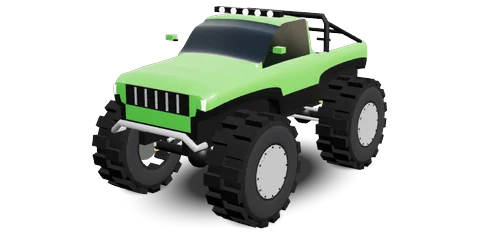
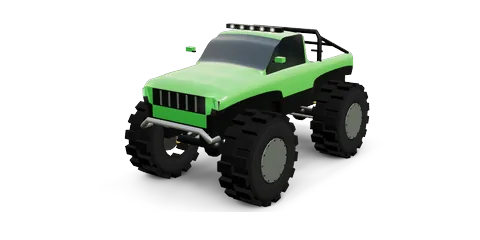
Grand Fable GP: car-card thumbnails for the 12 rebuilt cars (real colours), thumbnail cache-buster; tools README

Changed region(s): [[0.1875, 0.0292, 0.8125, 0.9625]]

diff --git a/race3d.js b/race3d.js
@@ -776,7 +776,7 @@ function renderRace(){
   const seg=(k,v,cl)=>'<span class="fz-st '+cl+'"><i>'+k+'</i><s>'+[1,2,3,4,5].map(q=>'<em class="'+(q<=v?"on":"")+'"></em>').join("")+'</s></span>';
   const grp=window._gpGrp||(GP_CARS.find(c=>c.id===sel)||{}).grp||"racers";
   const cards=GP_CARS.map(c=>'<button class="fz-car v4'+(c.id===sel?" on":"")+'"'+((c.grp||"racers")===grp?'':' hidden')+' data-grp="'+(c.grp||"racers")+'" data-car="'+c.id+'" onclick="gpPickCar(\''+c.id+'\')" aria-label="'+esc(c.n)+'">'
-    +'<span class="fz-thumb" style="--bg:url(assets/cars3d/thumbs/'+c.id+'.webp)"></span><span class="fz-kind">'+esc(c.kind||c.type)+'</span><b>'+esc(c.n)+'</b>'
+    +'<span class="fz-thumb" style="--bg:url(assets/cars3d/thumbs/'+c.id+'.webp?v=2)"></span><span class="fz-kind">'+esc(c.kind||c.type)+'</span><b>'+esc(c.n)+'</b>'
     +seg("Speed",c.speed,"sp")+seg("Grip",c.grip||c.handle,"gr")+seg("Accel",c.accel,"ac")+'<small>'+esc(c.bio)+'</small></button>').join("");
   const sw=GP_PAINTS.map(h=>'<button class="fz-sw'+(h===paint?" on":"")+'" style="background:'+h+'" data-paint="'+h+'" onclick="gpPickPaint(\''+h+'\')" aria-label="Paint colour"></button>').join("");
   app.innerHTML='<div class="'+gpShellClass()+(GP_PICS[sel]?" pic":"")+'" id="fzShell" style="max-width:980px;margin:0 auto;padding:0 8px">'

diff --git a/tools/cars3d/README_fleet.md b/tools/cars3d/README_fleet.md
@@ -81,3 +81,22 @@ One entry per id:
 - The formula's rear wing is narrower than its track (as on real cars). Its sticker sits on the main plane at x = ±0.27.
 - The trucks need `twF/twR/rad/radR` from fleet.json even more than the others: monster tyres are 0.80 m x 0.60 m and the
   semi's rear `twR` 0.66 covers both dual tyres. Their `ride` is the body floor (monster 1.30, trophy 0.75, semi cab 0.95).
+
+## Realistic parts (job 1112-0147-25ca)
+`build_fleet.py` now builds the 12 fleet cars with real-car parts (set `GP_FLEET_PLAIN=1` to rebuild the old models byte-for-byte):
+- **Lamp units** (`MBX` routes every `lamp` slab >= 5 cm and every `tail` part while a car's extras are built): dark `carbon`
+  housing, bright `rim` metal reflector bowl, `lamp` projector elements (two + an LED eyebrow on wide lamps), and a clear `lens`
+  cover. The lens takes the old part's outer face; everything else sits 3-9 mm behind it, so no outline moves. Tail lamps get a
+  glossy `taillens` cover over the `tail` emitter (the game lights both on the brake).
+- **`hl`** in fleet.json: headlamp centres `[x, y, z_front, size]` (game: faint glow sprites, `GP_GLB.<id>.hl`).
+- **Wheels:** 32 segments when `wseg % 4 == 0` (keeps the tyre's bounding box exact; ridge/monster/trophy keep 22/18), 5 lug nuts.
+- **Body:** stations at 0.025 / 0.045 m (razor keeps the old spacing - its nose tip moved 5 mm); door shut lines + chrome-metal
+  handles on the road cars in `PANEL`.
+- **New materials:** `lens`, `taillens` (`chrome`, `interior` exist but are unused, to keep each car within +2 materials).
+- **Contract check** (run after every rebuild, from the node folder like `check_glb.mjs`):
+  `node contract_check.mjs <old_unpacked_dir> <new_unpacked_dir> [ids]` - fails if a driving node (body, hub_*, wheel_*,
+  caliper_*) moved > 2 mm, a wheel's radius/width changed > 3 mm, the car's bbox changed > 10 mm, ride moved > 5 mm, an old
+  material vanished, tris > 34,000 or materials > old + 2. Also check `git diff assets/cars3d/fleet.json` only touches
+  `bytes`, `tris` and `hl`.
+- Pipeline after a rebuild: `bake_light.py` (lens skipped) -> `shadow_atlas.py` -> `pack_all.sh` (all 19 unpacked GLBs in one
+  folder, absolute out path) -> bump `?v=` in `GP_GLB`.

diff --git a/tools/cars3d/README.md b/tools/cars3d/README.md
@@ -38,3 +38,8 @@ passes; `--cycles` uses a Cycles AO bake instead. Meshy cars keep their own bake
 because three r128 ray-casts the bodies on the CPU (name plates, roof numbers) and does not de-normalise quantised positions.
 `check_glb.mjs`: same node names, material names, triangle count and per-node bounding box (2 mm) as the original.
 `assets/vendor/meshopt_decoder.js` = meshopt_decoder.cjs from meshoptimizer 1.3 (MIT, (c) Arseny Kapoulkine), unchanged.
+
+## Realistic look (job 1112-0147-25ca)
+The six Meshy cars keep their geometry; Realistic gives them real alloy / glass numbers through the cosmetic `rs` key in
+`GP_GLB` (merged over `matSet` only in the Realistic look, so Cartoon/Storybook are unchanged). The fleet rebuild, lamp units
+and the contract check are described in `README_fleet.md`.
